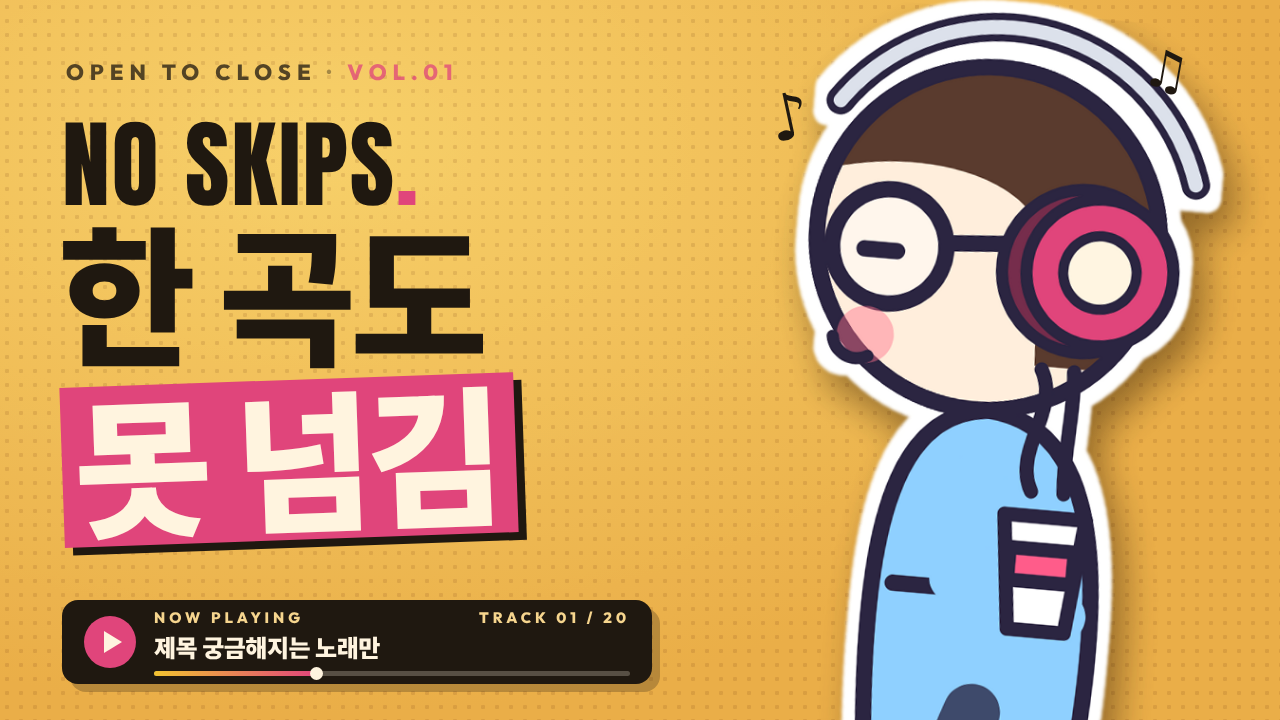
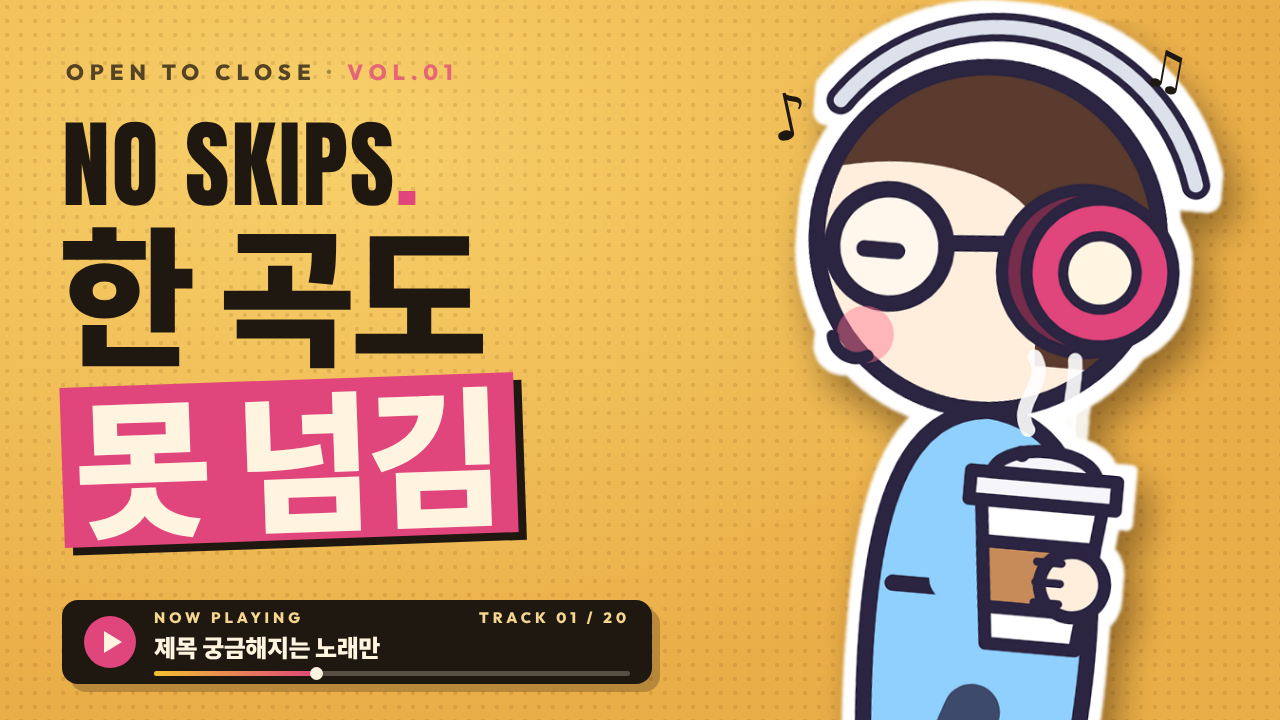
Signature look: mint retro headphones and a takeaway coffee in a kraft sleeve
- character.py: clearer coffee props (hot with lid, sleeve, steam and a hand;
  iced with straw), signature outfit for the brand images, vol01 outfit.
- Banner, profile and the VOL.01 thumbnail redrawn.

Claude-Session: https://claude.ai/code/session_01Eg7fx1GG91guzCkE9SfuUw

Changed region(s): [[0.75, 0.4889, 0.9062, 0.9167]]

diff --git a/studio/character.py b/studio/character.py
@@ -11,8 +11,10 @@ SKIN, HAIR = (1, 0.93, 0.86), hexc('#5A3B2E')
 OUTFITS = {
     'morning': dict(top='#FFC53D', bottom='#3D5BFF', phones='#7B3BFF', prop='coffee'),
     'street': dict(top='#1E1E24', bottom='#6B6F7A', phones='#F2C230', prop='coffee'),
-    # channel signature look: sky-blue hoodie, retro headphones
-    'signature': dict(top='#8FD0FF', bottom='#3E4A6B', phones='#E0457B', phones_style='retro', prop='coffee'),
+    # channel signature look (profile and banner): sky-blue hoodie, retro headphones, hot coffee in a kraft sleeve
+    'signature': dict(top='#8FD0FF', bottom='#3E4A6B', phones='#2EC4A6', phones_style='retro', prop='hot'),
+    # per-video looks: change colours and props every volume
+    'vol01': dict(top='#8FD0FF', bottom='#3E4A6B', phones='#E0457B', phones_style='retro', prop='hot'),
 }
 
 def _shape(ctx, fill, L):
@@ -31,6 +33,54 @@ def _phones(ctx, style, hx, hy, R, col, L):
     else:                  # classic thin band
         ctx.set_line_width(8); ctx.set_source_rgb(*col); ctx.arc(hx - 4, hy, R + 6, math.radians(195), math.radians(320)); ctx.stroke()
         ctx.arc(hx - 24, hy + 4, 11, 0, 2 * math.pi); ctx.fill_preserve(); ctx.set_source_rgb(*L); ctx.set_line_width(3); ctx.stroke()
+
+def _prop(ctx, kind, ex, ey, t, L, sleeve):
+    sleeve = hexc(sleeve)
+    skin = SKIN
+    if kind == 'coffee':      # original
+        ctx.set_line_width(3.5)
+        ctx.move_to(ex - 4, ey - 24); ctx.line_to(ex + 16, ey - 24); ctx.line_to(ex + 13, ey + 4); ctx.line_to(ex - 1, ey + 4); ctx.close_path(); _shape(ctx, (1, 1, 1), L)
+        ctx.rectangle(ex - 2, ey - 16, 16, 8); _shape(ctx, hexc('#FF5C8A'), L)
+        return
+    cx, by = ex + 7, ey + 8          # cup centre x, bottom y
+    ctx.set_line_width(3.2); ctx.set_line_join(cairo.LINE_JOIN_ROUND)
+    if kind in ('hot', 'hot_brand'):
+        top, bot, h = 15, 11, 36
+        ctx.move_to(cx - top, by - h); ctx.line_to(cx + top, by - h); ctx.line_to(cx + bot, by); ctx.line_to(cx - bot, by); ctx.close_path(); _shape(ctx, (1, 1, 1), L)
+        # sleeve
+        y0, y1 = by - h + 11, by - 9
+        f = lambda y: top + (bot - top) * (y - (by - h)) / h
+        ctx.move_to(cx - f(y0), y0); ctx.line_to(cx + f(y0), y0); ctx.line_to(cx + f(y1), y1); ctx.line_to(cx - f(y1), y1); ctx.close_path()
+        _shape(ctx, hexc('#E0457B') if kind == 'hot_brand' else sleeve, L)
+        if kind == 'hot_brand':
+            ctx.arc(cx, (y0 + y1) / 2, 4.5, 0, 2 * math.pi); ctx.set_source_rgb(1, 1, 1); ctx.fill(); ctx.set_source_rgb(*L)
+        # dome lid
+        ctx.rectangle(cx - top - 3, by - h - 6, 2 * top + 6, 7); _shape(ctx, (0.96, 0.96, 0.98), L)
+        ctx.move_to(cx - top + 2, by - h - 6); ctx.curve_to(cx - top + 4, by - h - 14, cx + top - 4, by - h - 14, cx + top - 2, by - h - 6); ctx.close_path(); _shape(ctx, (0.96, 0.96, 0.98), L)
+        ctx.arc(cx + 6, by - h - 11, 2, 0, 2 * math.pi); ctx.fill()
+        ctx.save(); ctx.set_source_rgba(1, 1, 1, .9); ctx.set_line_width(3.5)
+        for i, dx in enumerate((-5, 5)):          # soft white steam
+            s = math.sin(t * 3 + i)
+            ctx.move_to(cx + dx, by - h - 17); ctx.curve_to(cx + dx + 5 * s, by - h - 23, cx + dx - 5 * s, by - h - 29, cx + dx, by - h - 35); ctx.stroke()
+        ctx.restore()
+    elif kind == 'iced':
+        top, bot, h = 15, 11, 40
+        ctx.move_to(cx - top, by - h); ctx.line_to(cx + top, by - h); ctx.line_to(cx + bot, by); ctx.line_to(cx - bot, by); ctx.close_path()
+        ctx.set_source_rgb(0.9, 0.96, 1); ctx.fill_preserve(); ctx.set_source_rgb(*L); ctx.stroke()
+        lv = by - h + 12
+        f = lambda y: top + (bot - top) * (y - (by - h)) / h
+        ctx.move_to(cx - f(lv) + 2, lv); ctx.line_to(cx + f(lv) - 2, lv); ctx.line_to(cx + bot - 2, by - 2); ctx.line_to(cx - bot + 2, by - 2); ctx.close_path()
+        ctx.set_source_rgb(*hexc('#B07A4F')); ctx.fill()
+        for (dx, dy) in ((-6, 6), (4, 10), (-2, 18)):
+            ctx.rectangle(cx + dx - 4, lv + dy - 4, 8, 8); ctx.set_source_rgba(1, 1, 1, .85); ctx.fill_preserve(); ctx.set_source_rgb(*L); ctx.set_line_width(1.5); ctx.stroke()
+        ctx.set_line_width(3.2)
+        ctx.rectangle(cx - top - 3, by - h - 6, 2 * top + 6, 7); _shape(ctx, (0.96, 0.96, 0.98), L)
+        ctx.set_line_width(5); ctx.set_source_rgb(*L); ctx.move_to(cx + 3, by - h - 4); ctx.line_to(cx + 9, by - h - 30); ctx.stroke()
+        ctx.set_line_width(3); ctx.set_source_rgb(*hexc('#E0457B')); ctx.move_to(cx + 3, by - h - 4); ctx.line_to(cx + 9, by - h - 30); ctx.stroke()
+        ctx.set_source_rgb(*L); ctx.set_line_width(3.2)
+    # hand wrapped round the cup
+    ctx.arc(cx - 9, by - 16, 8, 0, 2 * math.pi); _shape(ctx, skin, L)
+    ctx.set_line_width(2); ctx.move_to(cx - 6, by - 21); ctx.line_to(cx, by - 21); ctx.move_to(cx - 6, by - 16); ctx.line_to(cx, by - 16); ctx.move_to(cx - 6, by - 11); ctx.line_to(cx, by - 11); ctx.stroke()
 
 def draw(ctx, cx, gy, t, L=hexc('#2B2541'), outfit='signature', walking=True, phase=None, walk=None, reach=0.0, press=0.0):
     """Draw the mascot standing on ground line gy at x=cx, facing right.
@@ -97,11 +147,5 @@ def draw(ctx, cx, gy, t, L=hexc('#2B2541'), outfit='signature', walking=True, ph
     # outfit: front arm + prop
     ctx.set_line_width(12); ctx.set_source_rgb(*top)
     ex, ey = limb(sh[0], sh[1], math.radians(10), 30, math.radians(-75), 28)
-    if o['prop'] == 'coffee':
-        ctx.set_line_width(3.5)
-        ctx.move_to(ex - 4, ey - 24); ctx.line_to(ex + 16, ey - 24); ctx.line_to(ex + 13, ey + 4); ctx.line_to(ex - 1, ey + 4); ctx.close_path(); _shape(ctx, (1, 1, 1), L)
-        ctx.rectangle(ex - 2, ey - 16, 16, 8); _shape(ctx, hexc('#FF5C8A'), L)
-        for i, dx in enumerate((2, 10)):
-            s = math.sin(t * 3 + i)
-            ctx.move_to(ex + dx, ey - 30); ctx.curve_to(ex + dx + 6 * s, ey - 40, ex + dx - 6 * s, ey - 50, ex + dx, ey - 60); ctx.stroke()
+    _prop(ctx, o['prop'], ex, ey, t, L, o.get('sleeve', '#C68B59'))
     return (hx, hy, R)
